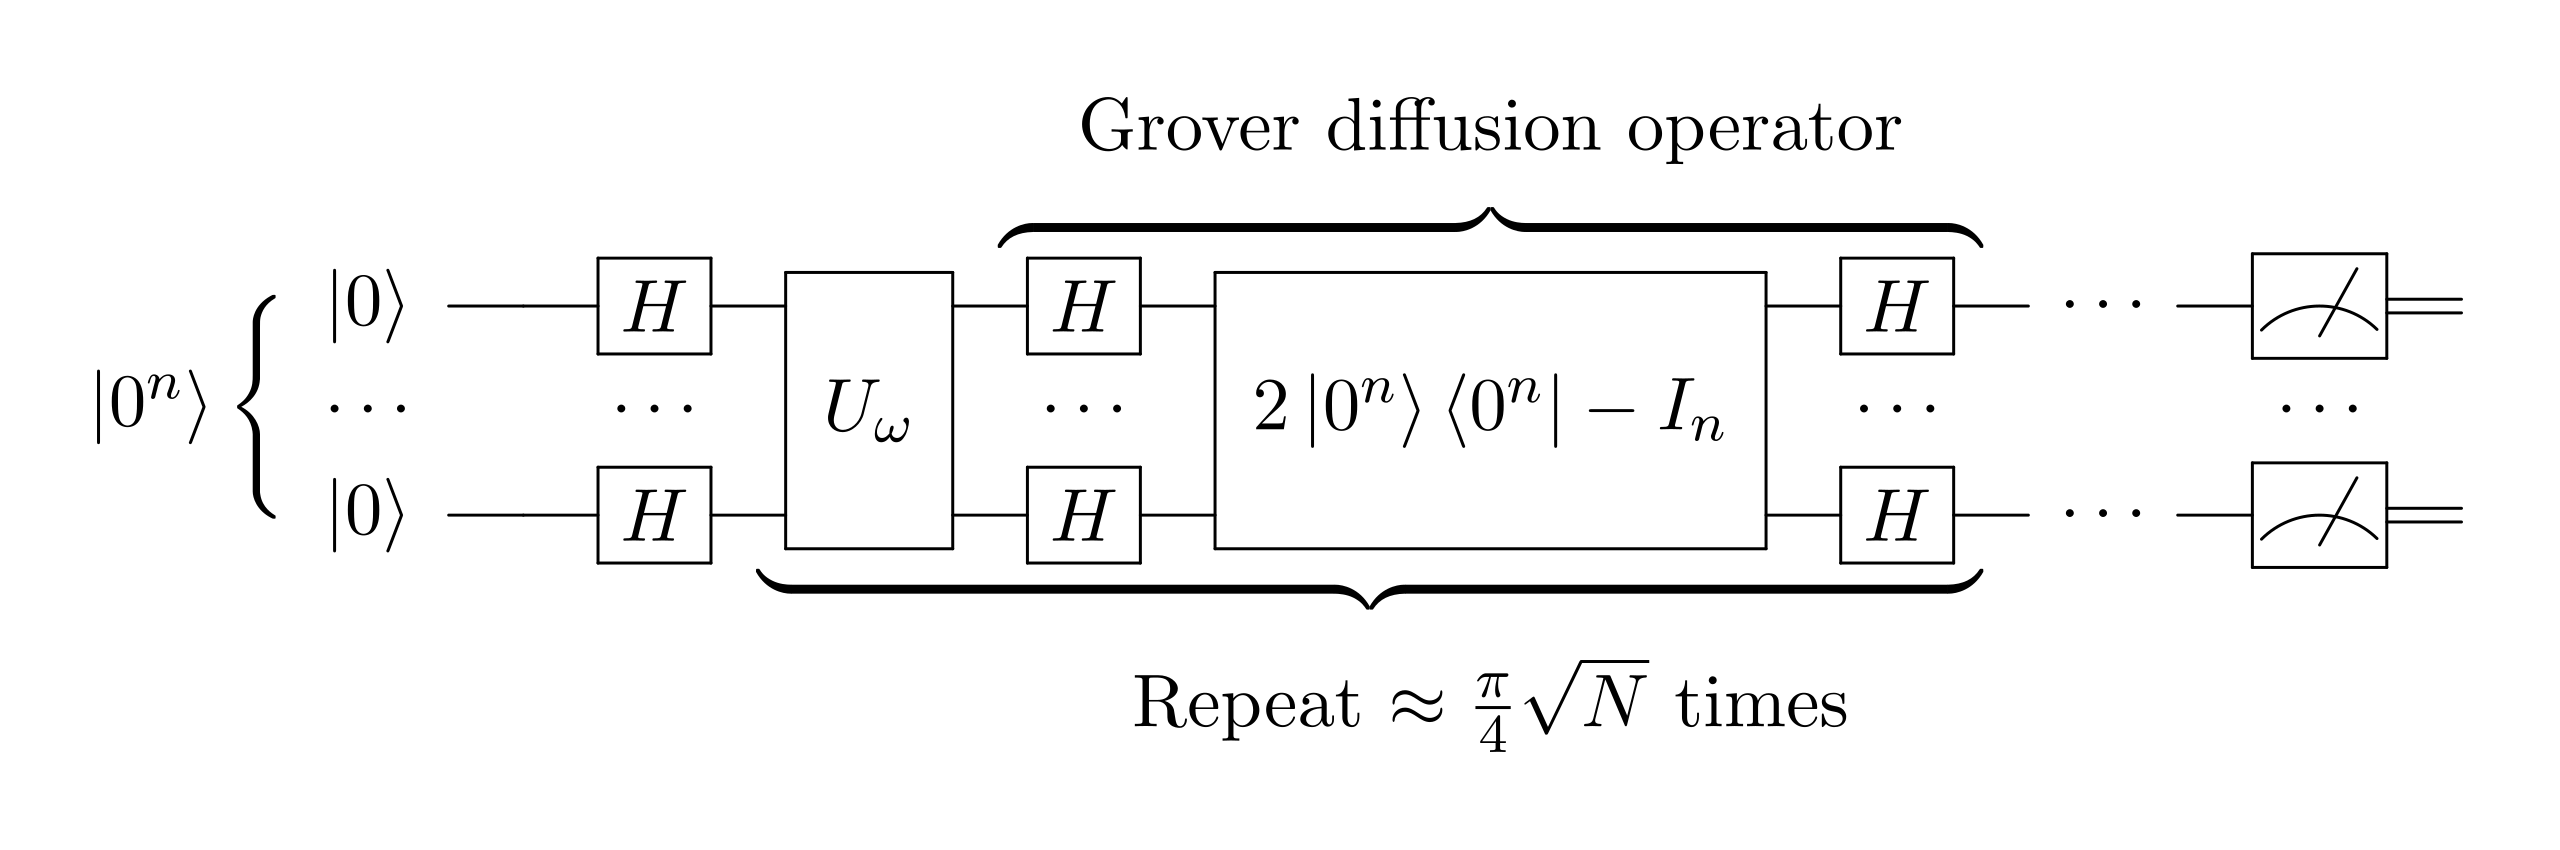
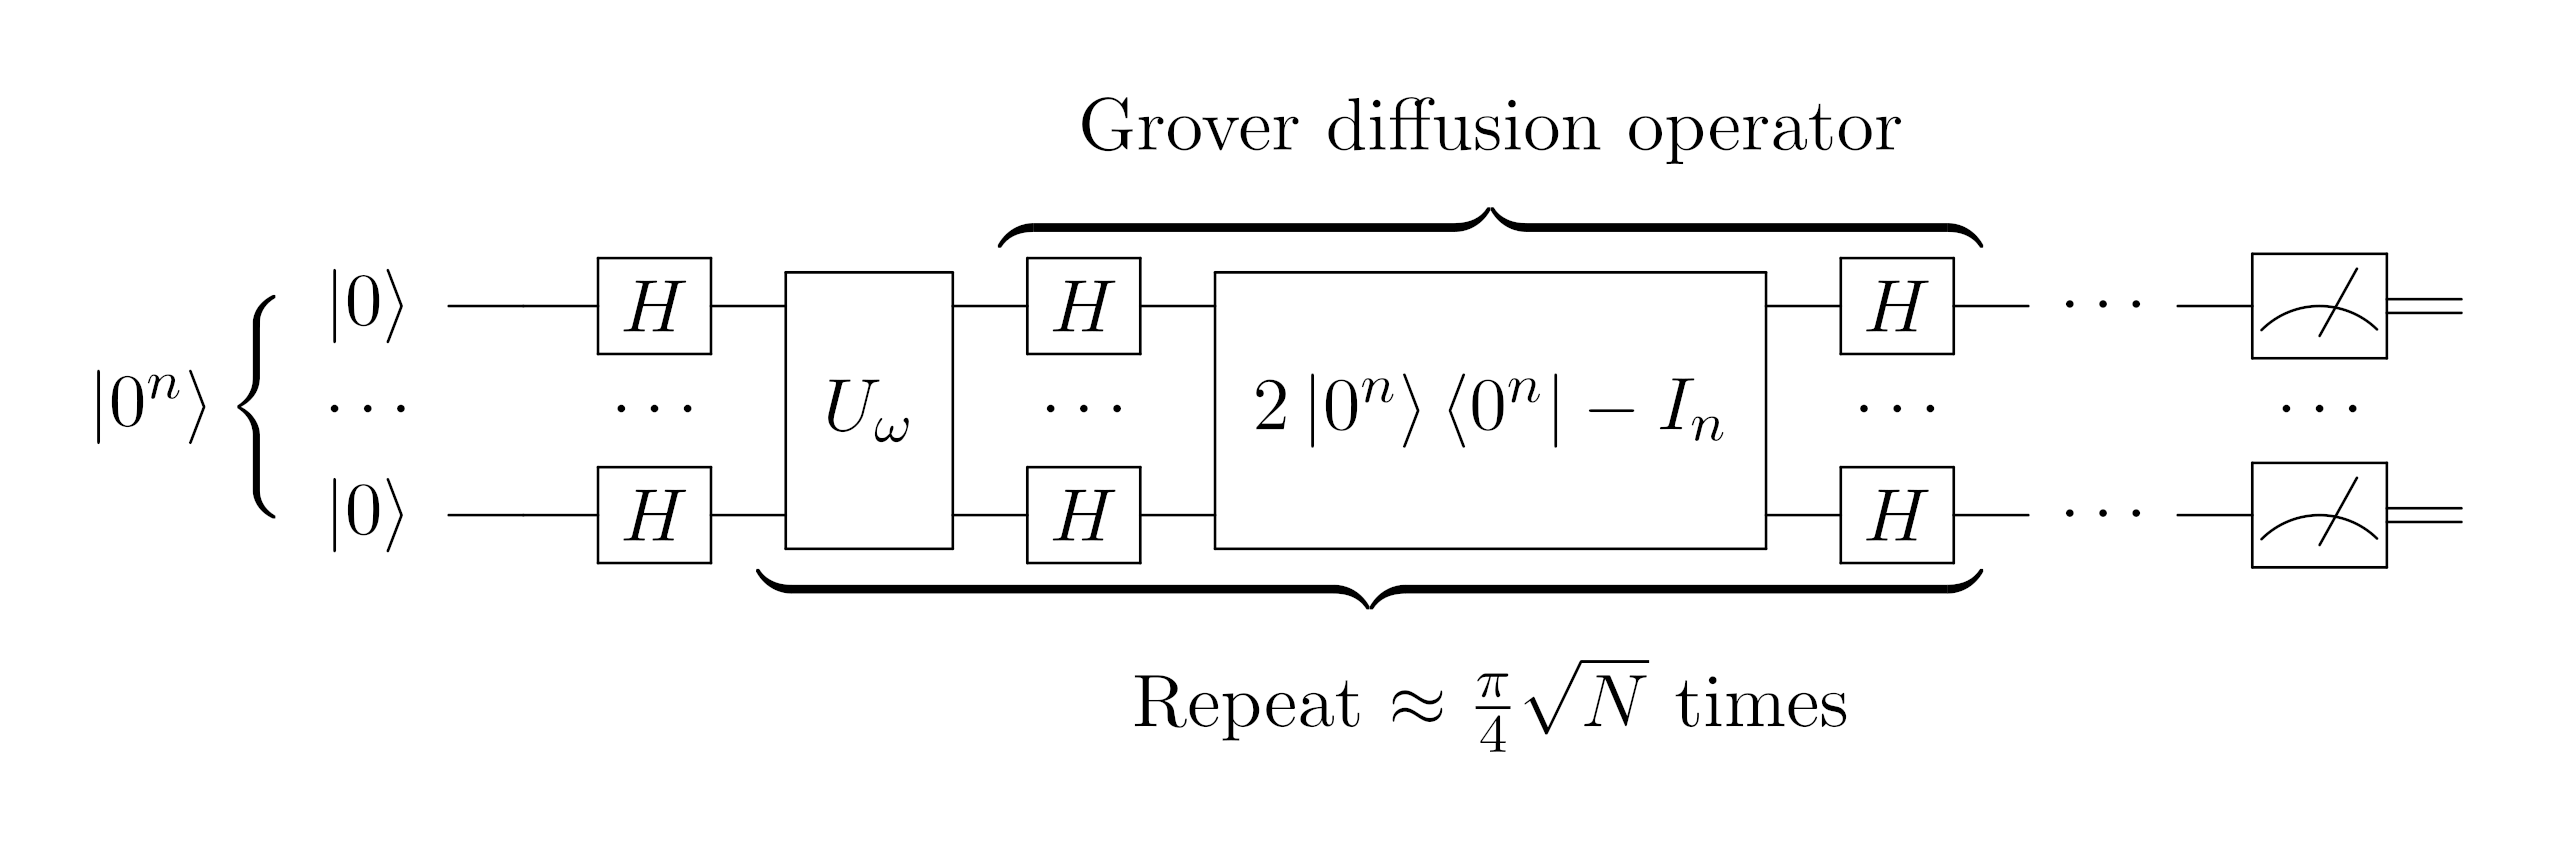
Update images

diff --git a/SIQPII/intro.html b/SIQPII/intro.html
@@ -1,8 +1,8 @@
 <!DOCTYPE html>
 <html>
 <head>
-<title>Introduction </title>
-<!-- 2026-09-07 Mon 11:15 -->
+<title>Preview </title>
+<!-- 2026-09-07 Mon 11:24 -->
 <meta  charset="utf-8">
 <meta  name="generator" content="Org-mode">
 <meta  name="author" content="David Wakeham">
@@ -186,7 +186,7 @@ for the JavaScript code in this tag.
 </head>
 <body>
 <div id="content">
-<h1 class="title">Introduction </h1>
+<h1 class="title">Preview </h1>
 <p>
 This paper introduces <code>yaw</code>, a language for algebraic quantum
 programming. Before we dive into the details, it will be helpful to
@@ -268,31 +268,13 @@ This proceeds in a few stages. Keeping the operator algebra abstract has
 the advantage that we can specify it in different ways. For instance,
 the algebra of a qubit \(\mathcal{A}_2\) can be viewed as the unit
 matrices
-$$ E_{11} =
-</p>
-<p>
-  \begin{bmatrix}
-    1 &amp; 0 \\ 0 &amp; 0
-  \end{bmatrix},
-E_{12} =
-</p>
-<p>
-  \begin{bmatrix}
-    0 &amp; 1 \\ 0 &amp; 0
-  \end{bmatrix},
-E_{21} =
-</p>
-<p>
-  \begin{bmatrix}
-    0 &amp; 0 \\ 1 &amp; 0
-  \end{bmatrix},
-E_{22} =
-</p>
-<p>
-  \begin{bmatrix}
-    0 &amp; 0 \\ 0 &amp; 1
-  \end{bmatrix}.
-$$
+\[
+E_{11} =  \begin{bmatrix}
+    1 & 0 \\ 0 & 0
+  \end{bmatrix}, \quad E_{12} =   \begin{bmatrix}     0 & 1 \\ 0 & 0
+\end{bmatrix}, \quad E_{21} =   \begin{bmatrix}     0 & 0 \\ 1 & 0
+\end{bmatrix}, \quad E_{22} =   \begin{bmatrix}     0 & 0 \\ 0 & 1   \end{bmatrix}.
+\]
 These have a very sparse multiplicative structure:
 \[
   E_{ab}E_{cd} = \delta_{bc}E_{ad}.
@@ -300,33 +282,12 @@ These have a very sparse multiplicative structure:
 An alternative parameterization is given by the celebrated Pauli
 matrices \(\sigma_1 = X, \sigma_2 = Y, \sigma_3 = Z\), with the explicit
 matrix expressions
-</p>
-
-<p>
-$$
-  &sigma;_1 =
-</p>
-<p>
-\begin{bmatrix}
-  0 &amp; 1 \\ 1 &amp; 0
-\end{bmatrix}, \quad
-&sigma;_2 =
-</p>
-<p>
-\begin{bmatrix}
-  0 &amp; i \\ -i &amp; 0
-\end{bmatrix}, \quad
-&sigma;_3 =
-</p>
-<p>
-\begin{bmatrix}
-  1 &amp; 0 \\ 0 &amp; -1
-\end{bmatrix}.
-\label{eq:pauli-mats}
-$$
-</p>
-
-<p>
+\[
+  \sigma_1 = \begin{bmatrix}     0 & 1 \\ 1 & 0   \end{bmatrix}, \quad
+\sigma_2 =   \begin{bmatrix}     0 & i \\ -i & 0   \end{bmatrix},
+\quad \sigma_3 =   \begin{bmatrix}     1 & 0 \\ 0 & -1
+\end{bmatrix}. \label{eq:pauli-mats}
+\]
 These have a much richer
 multiplicative structure:
 $$
@@ -532,7 +493,7 @@ and it follows that
   \pi^{(Z)}_0).
 \]
 Extending to a sum of terms
-\(W = \frac{1}{\sqrt{d}}\sum_{k=0}^{d-1} X^k\), we have<label for="sn-8" class="margin-toggle sidenote-number"></label><input type="checkbox" id="sn-8" class="margin-toggle"/><span class="sidenote">This is a special form of the <em>quantum Fourier transform (QFT)</em> that we cover at greater depth below. More generally it takes the form \(W = \frac{1}{\sqrt{d}}\sum_{k=0}^{d-1} X^kZ^{-(k+1)}\).</span>
+\(W = \frac{1}{\sqrt{d}}\sum_{k=0}^{d-1} X^k\), we have<label for="sn-8" class="margin-toggle sidenote-number"></label><input type="checkbox" id="sn-8" class="margin-toggle"/><span class="sidenote">This is a special form of the <em>quantum Fourier transform (QFT)</em> that we cover at greater depth below. More generally it takes the form \(W = \frac{1}{\sqrt{d}}\sum_{k=0}^{d-1} X^kZ^{-(k+1)}.\)</span>
 \[
   \text{C}X \left(W\otimes I\right) \triangleleft (\pi^{(Z)}_0 \otimes
   \pi^{(Z)}_0) = \frac{1}{\sqrt{d}}\sum_{k=0}^{d-1}\left(X^k \otimes
